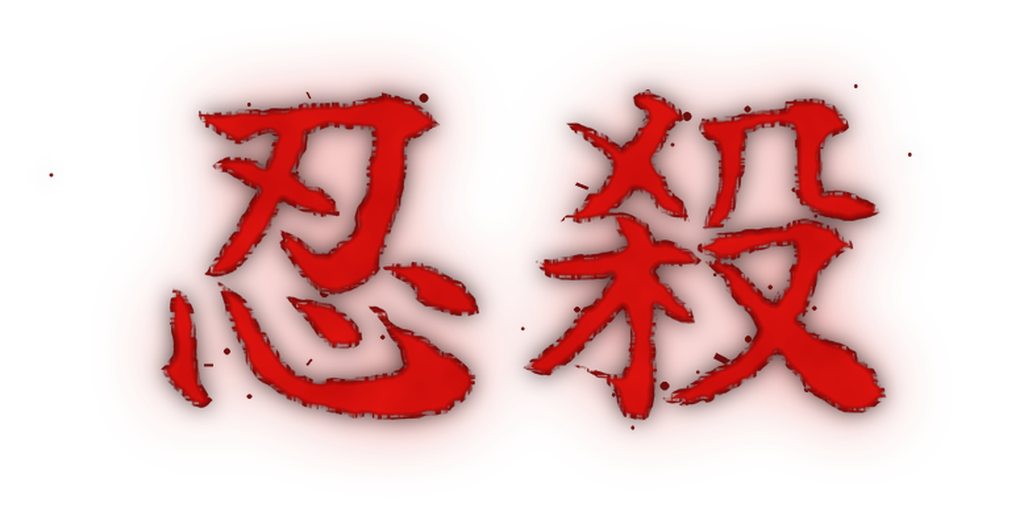
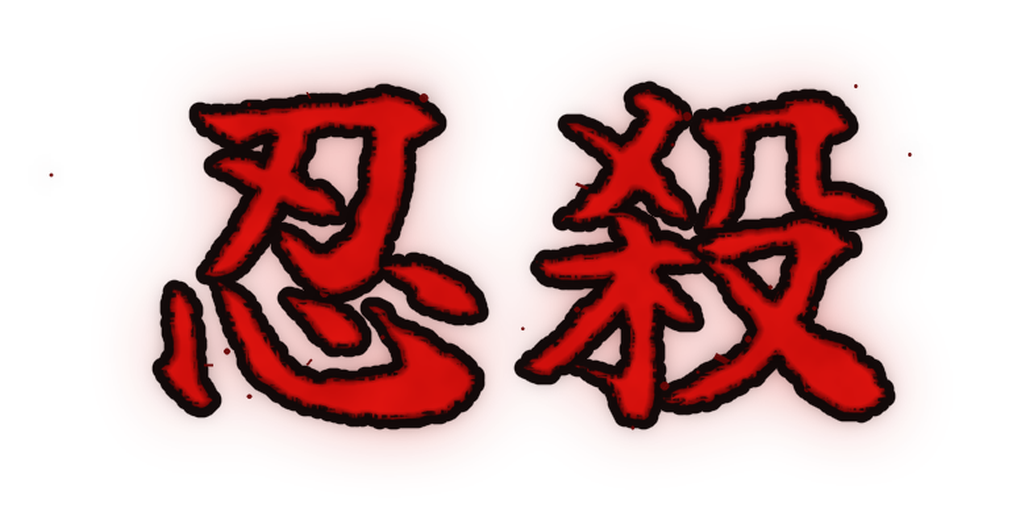
Знаки кистью с плотной тёмной обводкой — не сливаются с кровью и красным светом
Claude-Session: https://claude.ai/code/session_01JqUpyqddoJCmPqfiUgmopw

Changed region(s): [[0.125, 0.1562, 0.875, 0.8438]]

diff --git a/tools/texgen/brush_glyphs.py b/tools/texgen/brush_glyphs.py
@@ -83,9 +83,13 @@ def compose(A, core):
     shadow = np.array(Image.fromarray((A * 255).astype(np.uint8)).filter(ImageFilter.GaussianBlur(w / 90)), np.float32) / 255.0
     glow = np.array(Image.fromarray((A * 255).astype(np.uint8)).filter(ImageFilter.GaussianBlur(w / 28)), np.float32) / 255.0
     sa = np.clip(shadow * 0.75, 0, 1); ga = np.clip(glow * 0.55, 0, 1)
-    # слои снизу вверх: свечение (красное) → тень (почти чёрная) → тушь
+    # обводка: плотный тёмный контур вокруг туши — знак не сливается с кровью и красным светом
+    t = max(2.0, 0.02 * min(h, w))
+    dist = ndimage.distance_transform_edt(~((A > 0.5) & (core > 0.02)))   # контур по штрихам, брызги без обводки
+    oa = np.clip((t - dist) / 1.2 + 0.5, 0, 1) * 0.96
+    # слои снизу вверх: свечение (красное) → тень (почти чёрная) → обводка → тушь
     out_c = np.zeros((h, w, 3)); out_a = np.zeros((h, w))
-    for c_, a_ in ((np.array([0.85, 0.08, 0.04]), ga), (np.array([0.05, 0.0, 0.0]), sa)):
+    for c_, a_ in ((np.array([0.85, 0.08, 0.04]), ga), (np.array([0.05, 0.0, 0.0]), sa), (np.array([0.04, 0.01, 0.01]), oa)):
         out_c = c_ * a_[..., None] + out_c * (1 - a_[..., None]); out_a = a_ + out_a * (1 - a_)
     out_c = col * A[..., None] + out_c * (1 - A[..., None]); out_a = A + out_a * (1 - A)
     # прямая альфа: цвет делим обратно
